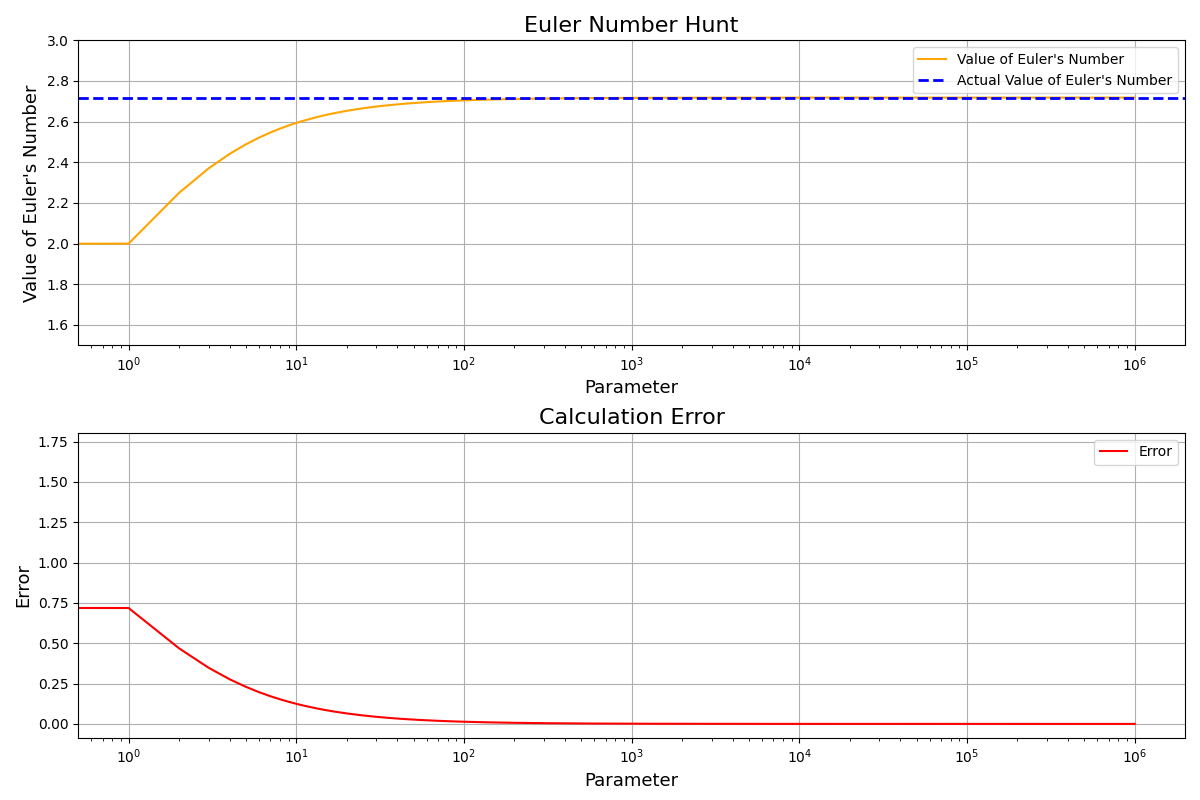
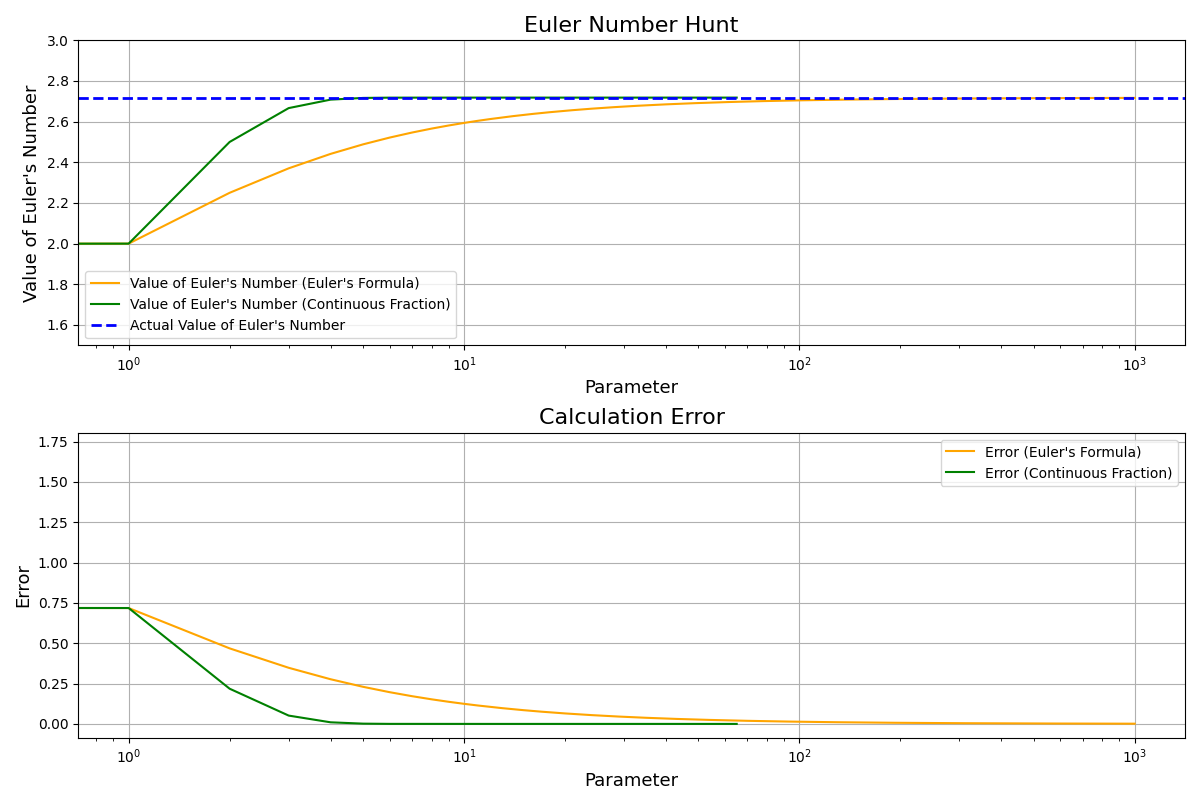
Update e_hunt to include continuous fraction convergence test

diff --git a/Euler's Number/e_hunt.py b/Euler's Number/e_hunt.py
@@ -2,20 +2,53 @@ import numpy as np
 import matplotlib.pyplot as plt
 import time
 
-trials = 10**6
+trials = 1000
 
-nums = np.arange(0,trials,1)
+def factorial(n) -> np.integer:
+  result = np.prod([x for x in np.arange(1,n+1)])
+  return result
 
-t1 = time.time()
-result = (1+ (1/nums))**nums
-t2 = time.time()
-minutes, seconds = np.divmod((t2-t1),60)
-print(f">>> Time Elapsed = {minutes} Minutes {seconds:.2f} Seconds")
+## Euler's Formula
+def euler_form(trial) -> tuple[np.ndarray, np.ndarray]:
+  nums = np.arange(0,trial,1)
+  t1 = time.time()
+  result = (1+ (1/nums))**nums
+  t2 = time.time()
+  minutes, seconds = np.divmod((t2-t1),60)
+  print(f">>> Time Elapsed (Euler's Formula) = {minutes} Minutes {seconds:.4f} Seconds")
+  return nums, result
+
+nums,result = euler_form(trial=trials)
+
+
+## Continuous Fraction
+def cont_frac(n) -> tuple[list,list]:
+  t1 = time.time()
+  result = []
+  n_params = []
+  for i in range(n):
+    if i == 0:
+      n_params.append(i)
+      prv = 1
+      result.append(prv)
+      continue
+    now = 1/ factorial(i)
+    to_append = prv + now
+    result.append(to_append)
+    n_params.append(i)
+    prv = to_append
+  t2 = time.time()
+  minutes,seconds = np.divmod((t2-t1),60)
+  print(f">>> Time Elapsed (Continuous Fraction) = {minutes} Minutes {seconds:.4f} Seconds")
+  return result,n_params
+
+result_2, n_params_2 = cont_frac(n=trials)
 
 fig, (ax1, ax2) = plt.subplots(2, 1, figsize=(12, 8))
 
 # Subplot 1: Value of Euler's Number
-ax1.plot(nums, result, color="orange", label="Value of Euler's Number")
+ax1.plot(nums, result, color="orange", label="Value of Euler's Number (Euler's Formula)")
+ax1.plot(n_params_2, result_2, color="green", label="Value of Euler's Number (Continuous Fraction)")
 ax1.axhline(np.e, color="blue", linestyle="--", linewidth=2, label="Actual Value of Euler's Number")
 ax1.set_ylabel("Value of Euler's Number", fontdict={"fontsize": 13})
 ax1.set_xlabel("Parameter", fontdict={"fontsize": 13})
@@ -28,7 +61,9 @@ ax1.grid()
 # Subplot 2: Calculation Error
 
 error = np.abs(result - np.e)
-ax2.plot(nums, error, color="red", label="Error")
+error_2 = np.abs(np.array(result_2) - np.e)
+ax2.plot(nums, error, color="orange", label="Error (Euler's Formula)")
+ax2.plot(n_params_2, error_2, color="green", label="Error (Continuous Fraction)")
 ax2.set_ylabel("Error", fontdict={"fontsize": 13})
 ax2.set_xlabel("Parameter", fontdict={"fontsize": 13})
 ax2.set_xscale("log")
